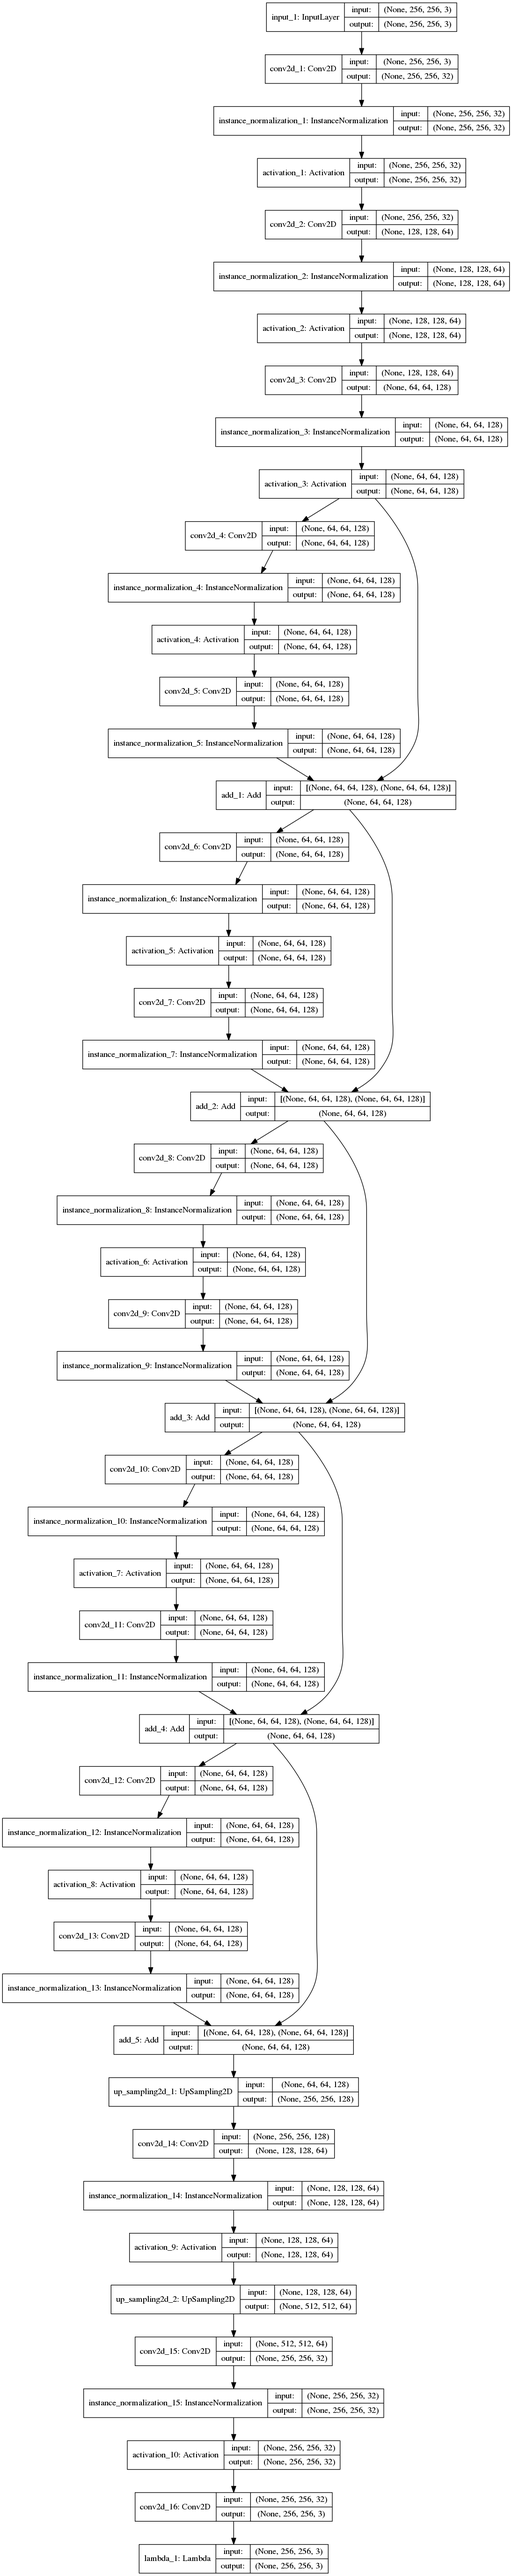
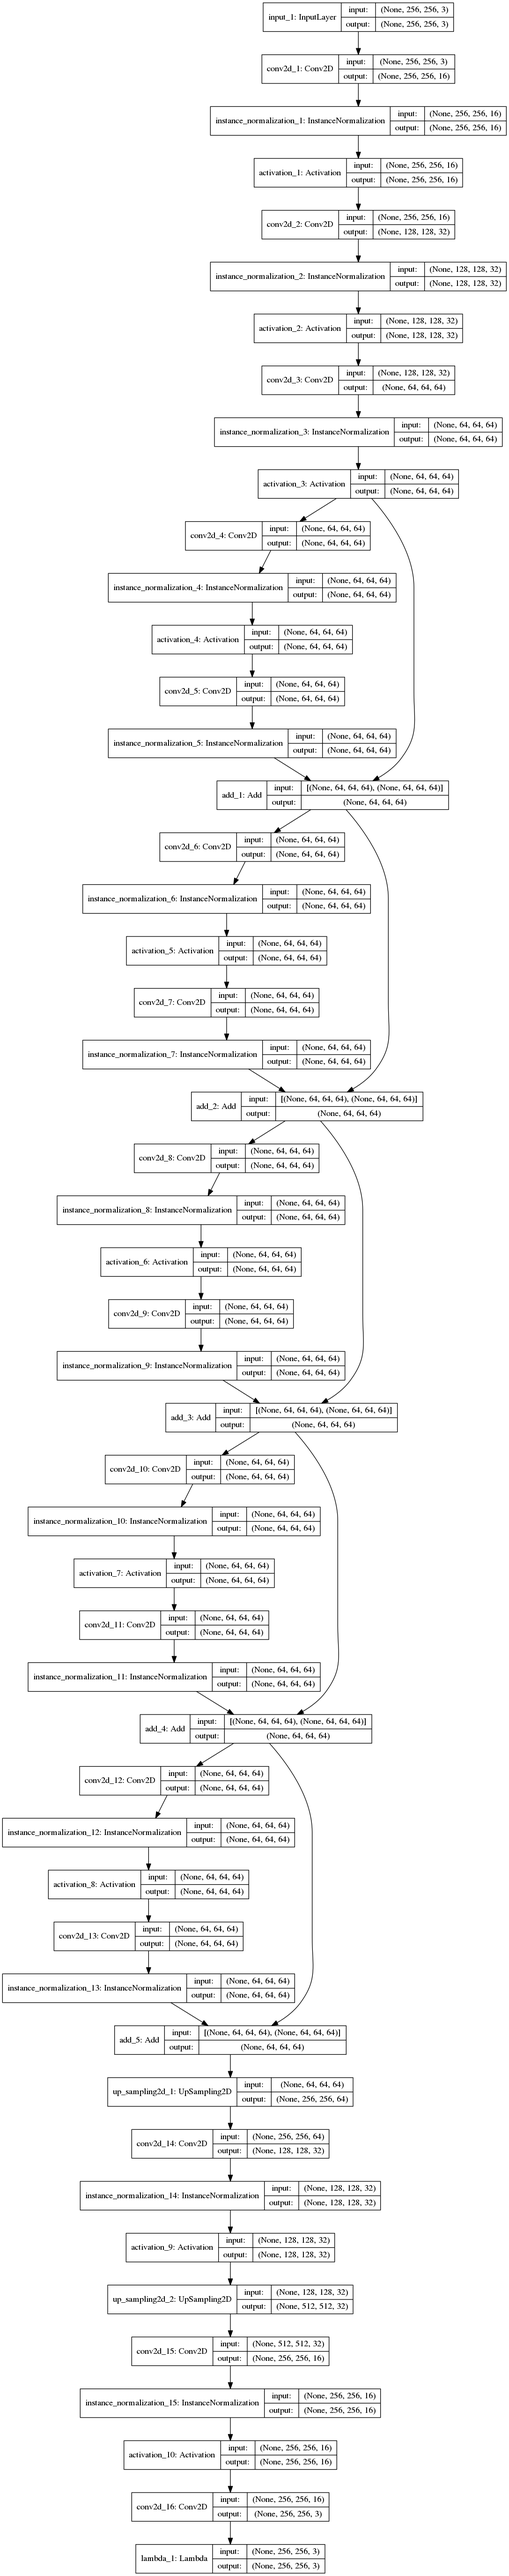
change module structure

diff --git a/model.py b/model.py
@@ -14,70 +14,48 @@ def down_sampling(x, filters, kernel_size, strides, padding="same", activation="
                   kernel_size=kernel_size,
                   strides=strides,
                   padding=padding,
-                  data_format=K.image_data_format())(x)
-    if K.image_data_format() == 'channels_first':
-        instance_normalized = InstanceNormalization(axis=1)(conv)
-    else:
-        instance_normalized = InstanceNormalization(axis=3)(conv)
-    activated = Activation(activation)(instance_normalized)
+                  activation=None)(x)
+    instance_normalized = InstanceNormalization(axis=3)(conv)
+    activated = Activation(activation=activation)(instance_normalized)
     return activated
 
 
 def residul(x):
-    conv1 = Conv2D(filters=128,
+    conv1 = Conv2D(filters=64,
                    kernel_size=3,
                    strides=1,
                    padding="same",
-                   data_format=K.image_data_format())(x)
-    if K.image_data_format() == 'channels_first':
-        instance_normalized1 = InstanceNormalization(axis=1)(conv1)
-    else:
-        instance_normalized1 = InstanceNormalization(axis=3)(conv1)
+                   activation=None)(x)
+    instance_normalized1 = InstanceNormalization(axis=3)(conv1)
     relu = Activation("relu")(instance_normalized1)
-    conv2 = Conv2D(filters=128,
+    conv2 = Conv2D(filters=64,
                    kernel_size=3,
                    strides=1,
                    padding="same",
-                   data_format=K.image_data_format())(relu)
-    if K.image_data_format() == 'channels_first':
-        instance_normalized2 = InstanceNormalization(axis=1)(conv2)
-    else:
-        instance_normalized2 = InstanceNormalization(axis=3)(conv2)
+                   activation=None)(relu)
+    instance_normalized2 = InstanceNormalization(axis=3)(conv2)
     return Add()([instance_normalized2, x])
 
 
 def up_sampling(x, filters, kernel_size, strides, padding="same", activation="relu"):
-    # deconv = Conv2DTranspose(filters=filters,
-    #                          kernel_size=kernel_size,
-    #                          strides=strides,
-    #                          padding=padding,
-    #                          data_format=K.image_data_format())(x)
     uped = UpSampling2D(size=(2*strides, 2*strides),
-                        data_format=K.image_data_format(),
                         interpolation="nearest")(x)
     deconv = Conv2D(filters=filters,
                     kernel_size=kernel_size,
                     strides=strides,
                     padding=padding,
-                    data_format=K.image_data_format())(uped)
-
-    if K.image_data_format() == 'channels_first':
-        instance_normalized = InstanceNormalization(axis=1)(deconv)
-    else:
-        instance_normalized = InstanceNormalization(axis=3)(deconv)
-    activated = Activation(activation)(instance_normalized)
+                    activation=None)(uped)
+    instance_normalized = InstanceNormalization(axis=3)(deconv)
+    activated = Activation(activation=activation)(instance_normalized)
     return activated
 
 
 def transform_net():
-    if K.image_data_format() == 'channels_first':
-        input_tensor = Input(shape=(3, img_nrows, img_ncols))
-    else:
-        input_tensor = Input(shape=(img_nrows, img_ncols, 3))
+    input_tensor = Input(shape=(img_nrows, img_ncols, 3))
 
-    conv1 = down_sampling(input_tensor, 32, 9, 1)
-    conv2 = down_sampling(conv1, 64, 3, 2)
-    conv3 = down_sampling(conv2, 128, 3, 2)
+    conv1 = down_sampling(input_tensor, 16, 9, 1)
+    conv2 = down_sampling(conv1, 32, 3, 2)
+    conv3 = down_sampling(conv2, 64, 3, 2)
 
     resi1 = residul(conv3)
     resi2 = residul(resi1)
@@ -85,16 +63,16 @@ def transform_net():
     resi4 = residul(resi3)
     resi5 = residul(resi4)
 
-    deconv1 = up_sampling(resi5, 64, 3, 2)
-    deconv2 = up_sampling(deconv1, 32, 3, 2)
-    # deconv3 = up_sampling(deconv2, 3, 9, 1, activation="tanh")
+    deconv1 = up_sampling(resi5, 32, 3, 2)
+    deconv2 = up_sampling(deconv1, 16, 3, 2)
     deconv3 = Conv2D(filters=3,
                      kernel_size=9,
                      strides=1,
                      padding="same",
-                     data_format=K.image_data_format())(deconv2)
+                     activation=None)(deconv2)
 
-    output = Lambda(lambda x: x * 127.5)(deconv3)
+    # I don't know why but it works...
+    output = Lambda(lambda x: x * 150)(deconv3)
 
     transform_model = Model(inputs=input_tensor, outputs=output, name="transNet")
     plot_model(transform_model, to_file="img/model/transform_net.png", show_shapes=True)
@@ -108,10 +86,7 @@ style_feature_shape = []
 
 def loss_net():
     # get tensor representations of our images
-    if K.image_data_format() == 'channels_first':
-        input_shape = (3, img_nrows, img_ncols)
-    else:
-        input_shape = (img_nrows, img_ncols, 3)
+    input_shape = (img_nrows, img_ncols, 3)
 
     # build the VGG19 network with pre-trained ImageNet weights loaded
     input_tensor = Input(shape=input_shape)
@@ -153,14 +128,12 @@ def overall_net():
     for i, input_shape in enumerate(style_feature_shape):
         style_features.append(Input(shape=input_shape[1:], name="StyleFeature%d" % (i+1)))
 
-    if K.image_data_format() == 'channels_first':
-        raw_image = Input(shape=(3, img_nrows, img_ncols), name="image")
-    else:
-        raw_image = Input(shape=(img_nrows, img_ncols, 3), name="image")
+    raw_image = Input(shape=(img_nrows, img_ncols, 3), name="image")
 
     input_tensors = [raw_image] + content_features + style_features
 
     transformed_image = trans_net(raw_image)
+    transformed_image = Reshape(target_shape=(img_nrows, img_ncols, 3), name="TransformedImage")(transformed_image)
     transformed_features = los_net(transformed_image)
 
     c_losses = []
@@ -176,7 +149,6 @@ def overall_net():
         s_loss = Lambda(style_loss, name="StyleLoss%d" % (i+1))([style_features[i], trans_feature])
         s_losses.append(s_loss)
 
-    transformed_image = Reshape(target_shape=(img_nrows, img_ncols, 3), name="TransformedImage")(transformed_image)
     tv_loss = Lambda(total_variation_loss, name="TvLoss")(transformed_image)
 
     losses = c_losses + s_losses + [tv_loss]

diff --git a/main.py b/main.py
@@ -94,6 +94,9 @@ def transform_test_image(epoch, logs):
     plt.savefig(save_path)
     plt.close()
 
+    if os.path.exists(model_path):
+        trans_model.save_weights(model_path)
+
 
 if __name__ == "__main__":
     print("hello lumos!")
@@ -105,18 +108,17 @@ if __name__ == "__main__":
     graph = tf.get_default_graph()
 
     overall_model.summary()
-    opt = Adam(lr=learning_rate, clipvalue=0.5)
+    opt = Adam(lr=learning_rate)
     overall_model.compile(optimizer=opt, loss=lambda y_true, y_pred: y_pred)
     predict_callback = LambdaCallback(on_epoch_end=transform_test_image)
 
     model_path = os.path.join(model_dirpath, style_name) + ".hdf5"
 
     if os.path.exists(model_path):
-        overall_model.load_weights(model_path)
+        trans_model.load_weights(model_path)
 
-    checkpointer = ModelCheckpoint(filepath=model_path, save_weights_only=True)
     overall_model.fit_generator(generator(batch_size=4),
                                 steps_per_epoch=50,
                                 epochs=500,
-                                callbacks=[predict_callback, checkpointer])
+                                callbacks=[predict_callback])
 

diff --git a/util.py b/util.py
@@ -1,6 +1,6 @@
 from keras.preprocessing.image import load_img, save_img, img_to_array
 from keras import backend as K
-from keras.applications import vgg19
+from keras.applications import vgg16
 import numpy as np
 import os
 
@@ -12,7 +12,7 @@ def preprocess_image(image_path):
     img = load_img(image_path, target_size=(img_nrows, img_ncols))
     img = img_to_array(img)
     img = np.expand_dims(img, axis=0)
-    img = vgg19.preprocess_input(img)
+    img = vgg16.preprocess_input(img)
     return img
 
 

diff --git a/conf.py b/conf.py
@@ -2,7 +2,7 @@ img_nrows = 256
 img_ncols = 256
 content_weight = 1
 style_weight = 5
-tv_weight = 1e-6
+tv_weight = 1e-4
 learning_rate = 1e-3
 style_feature_layers = ['block1_conv2', 'block2_conv2',
                         'block3_conv3', 'block4_conv3']
